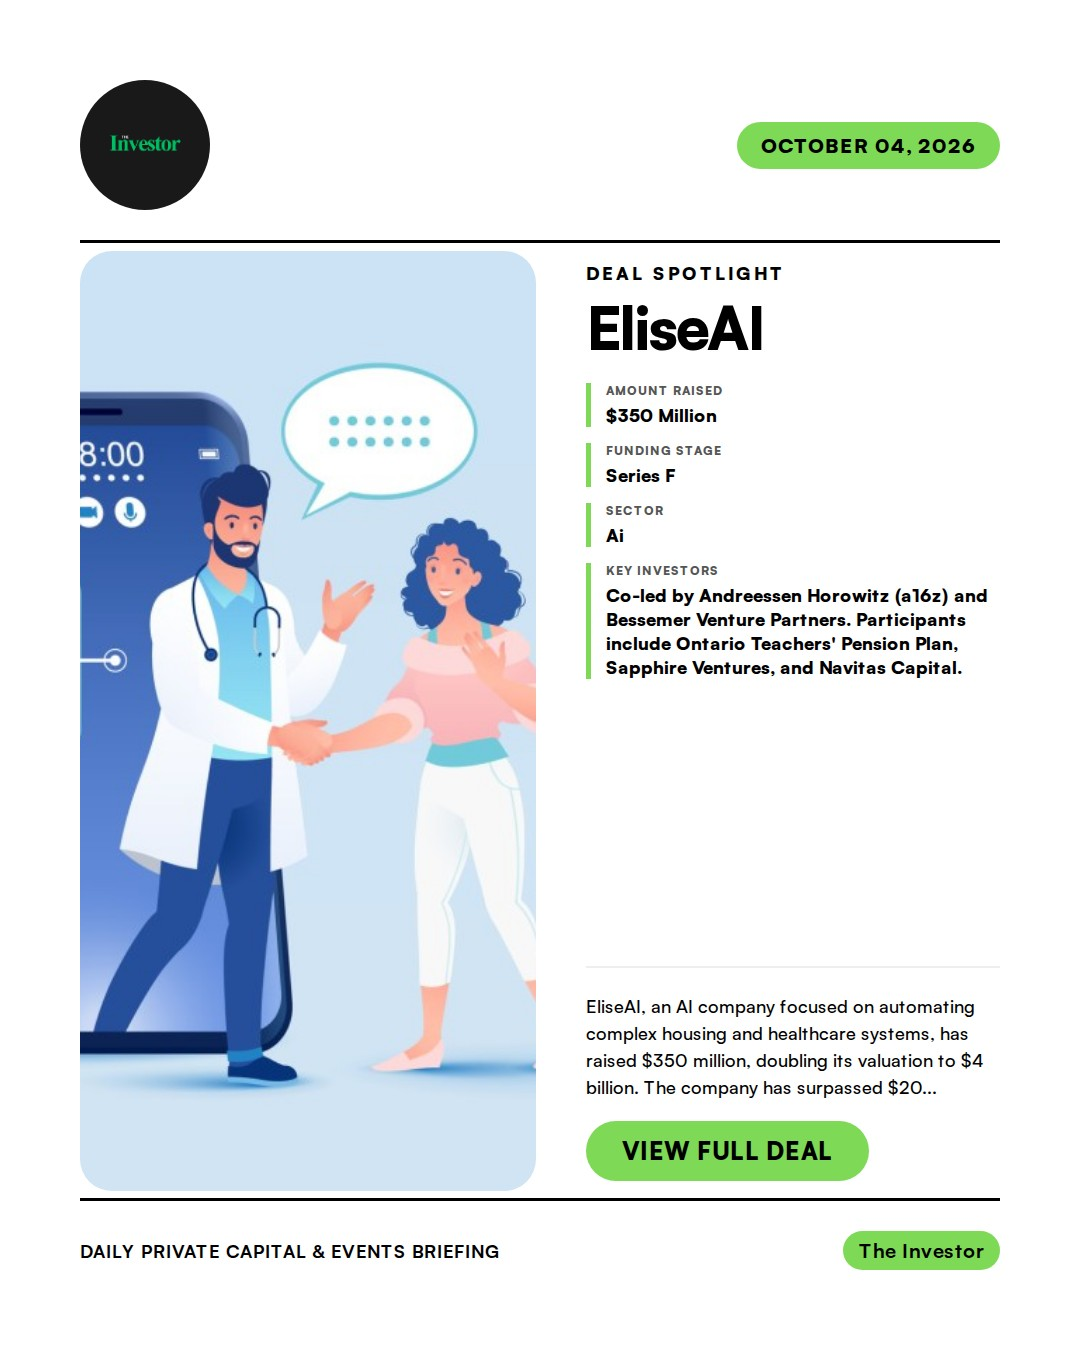
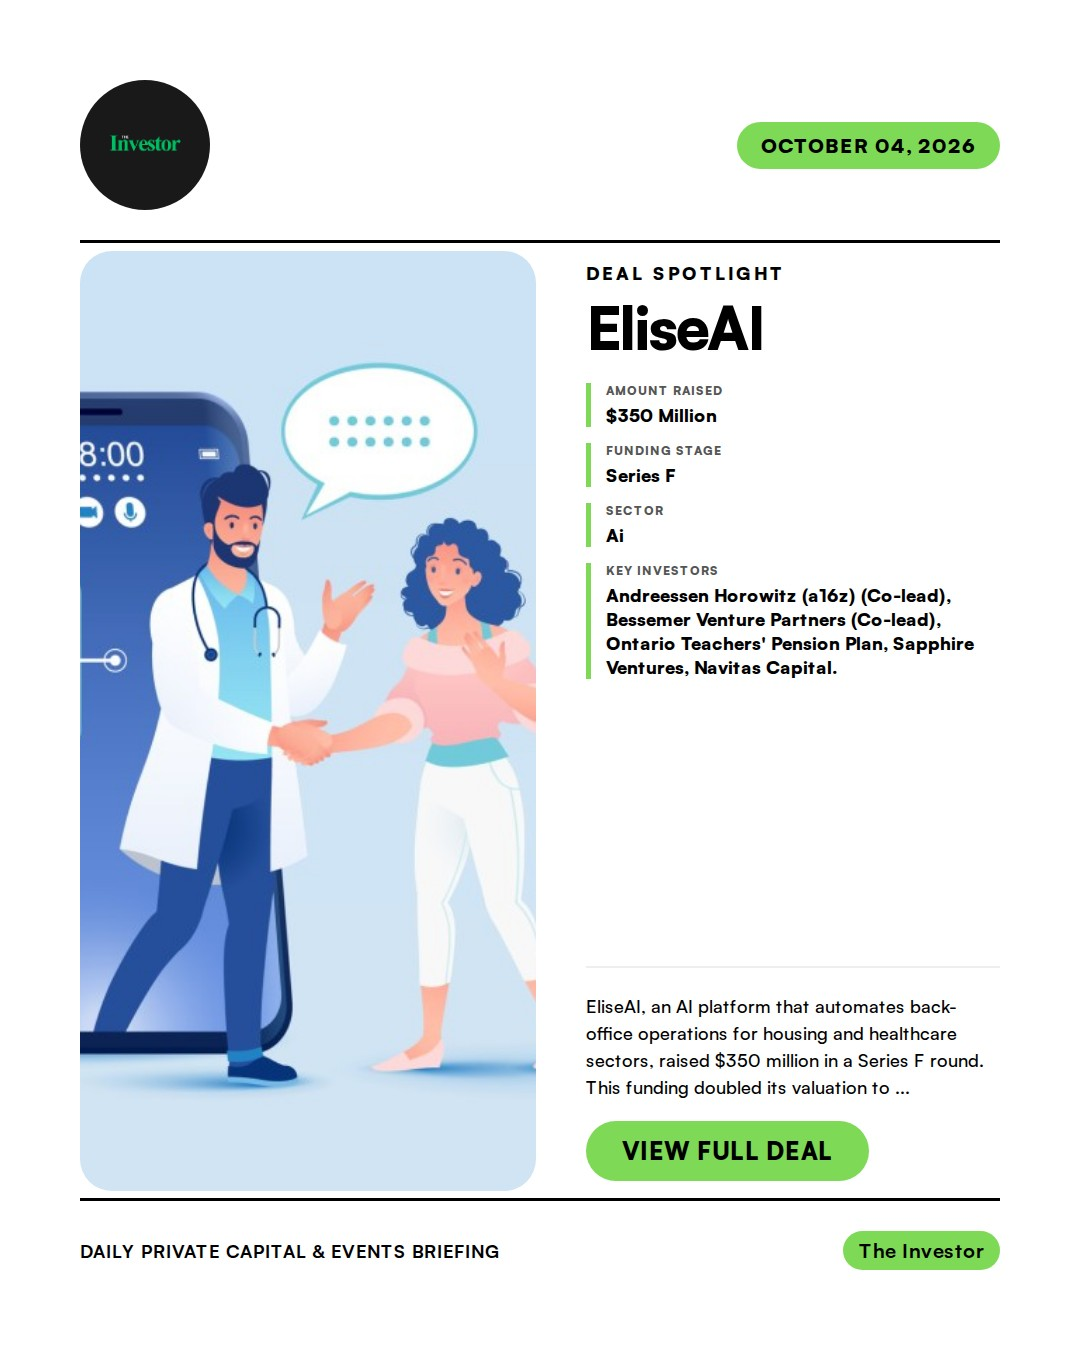
docs: Add daily news report 2026-10-04

Changed region(s): [[0.55, 0.7156, 0.9167, 0.8089], [0.55, 0.4356, 0.9167, 0.4978]]

diff --git a/NewsReport/2026-10-04-news-report.md b/NewsReport/2026-10-04-news-report.md
@@ -7,48 +7,48 @@
 
 ## 1. Neko Health: $700 Million Series C
 
-- **Summary**: Neko Health, co-founded by Spotify founder Daniel Ek, has secured $700 million in Series C funding. The preventive health technology company focuses on shifting healthcare from treating disease to preventing it through comprehensive, non-invasive body assessments powered by proprietary technology. The funding will support the company's expansion into the United States and accelerate its research and development efforts.
+- **Summary**: Neko Health, co-founded by Spotify's Daniel Ek, raised $700 million in a Series C round to expand its preventive health platform. The company offers comprehensive full-body scans to detect health issues early, aiming to shift healthcare towards prevention. The funds will be used to launch services in the US and advance its diagnostic technology.
 - **Key Points**:
-  1. Investors: Led by Lightspeed Venture Partners and co-led by O.G. Venture Partners. Participants include Atomico, General Catalyst, Lakestar, Liberty City Ventures, Positive Sum, BDT & MSD, Mark Zuckerberg, Priscilla Chan, Tim Ferriss, Maria Sharapova, and will.i.am.
-  2. Sector keywords: healthtech, preventative health, body scanning, AI, medical diagnostics
+  1. Investors: Lightspeed Venture Partners (Lead), O.G. Venture Partners (Co-lead), Atomico, General Catalyst, Lakestar, Liberty City Ventures, Positive Sum, BDT & MSD, Mark Zuckerberg, Priscilla Chan, OpenAI, Tim Ferriss, Maria Sharapova, will.i.am.
+  2. Sector keywords: healthtech, preventative healthcare, body scanning, AI, diagnostics
 - **Source**: [TechCrunch](https://techcrunch.com/podcast/the-investor-behind-neko-healths-700m-bet-on-scanning-your-whole-body/)
-- **Keywords**: `healthtech, preventative health, body scanning, AI, medical diagnostics`
+- **Keywords**: `healthtech` `preventative healthcare` `body scanning` `AI` `diagnostics`
 - **Score**: ⭐⭐⭐⭐⭐ (5/5)
 
 ---
 
 ## 2. EliseAI: $350 Million Series F
 
-- **Summary**: EliseAI, an AI company focused on automating complex housing and healthcare systems, has raised $350 million, doubling its valuation to $4 billion. The company has surpassed $200 million in annual recurring revenue and its platform powers a significant portion of U.S. apartments. The new capital will be used to expand its engineering, deployment, and sales teams, and establish a second engineering hub in San Francisco.
+- **Summary**: EliseAI, an AI platform that automates back-office operations for housing and healthcare sectors, raised $350 million in a Series F round. This funding doubled its valuation to $4 billion. The company aims to solve inefficiencies in these industries by handling tasks like leasing, resident services, scheduling, and insurance verification through AI agents.
 - **Key Points**:
-  1. Investors: Co-led by Andreessen Horowitz (a16z) and Bessemer Venture Partners. Participants include Ontario Teachers' Pension Plan, Sapphire Ventures, and Navitas Capital.
-  2. Sector keywords: AI, enterprise AI, proptech, healthtech, SaaS
+  1. Investors: Andreessen Horowitz (a16z) (Co-lead), Bessemer Venture Partners (Co-lead), Ontario Teachers' Pension Plan, Sapphire Ventures, Navitas Capital.
+  2. Sector keywords: AI, enterprise AI, proptech, healthtech, automation, SaaS
 - **Source**: [TechCrunch](https://techcrunch.com/2026/09/29/a16z-backed-eliseai-raises-350m-doubles-valuation-to-4b/)
-- **Keywords**: `AI, enterprise AI, proptech, healthtech, SaaS`
+- **Keywords**: `AI` `enterprise AI` `proptech` `healthtech` `automation` `SaaS`
 - **Score**: ⭐⭐⭐⭐⭐ (5/5)
 
 ---
 
 ## 3. Satlyt: $8 Million Seed
 
-- **Summary**: Satlyt, a Kenyan-American-founded space-tech startup, has secured $8 million in seed funding. The company is developing software that enables satellites to process data and run AI onboard, aiming to create virtual AI data centers in space. This technology is designed to reduce the need for raw data transmission to Earth, providing faster and more efficient in-orbit data analysis.
+- **Summary**: Satlyt, a satellite software company, raised $8 million in seed funding to expand AI computing and data-processing capabilities in space. The company develops technology for satellites to process information in orbit, reducing reliance on ground-based analysis. Its longer-term objective is to coordinate computing resources across multiple satellites.
 - **Key Points**:
-  1. Investors: Led by Non Sibi Ventures. Participants include TLCOM, Antler, Slauson & Co., Launch Africa Ventures, Enza Capital, Askya Investment Partners, Demos, BAG Collective, Gaingels, and Axian Investment.
-  2. Sector keywords: space tech, AI infrastructure, data centers, satellite technology
+  1. Investors: non sibi ventures (Lead), TLCOM, Antler, Slauson & Co., Launch Africa Ventures, Enza Capital, Askya Investment Partners, Demos, BAG Collective, Gaingels, Axian Investment.
+  2. Sector keywords: space tech, AI infrastructure, satellite software, data processing, deeptech
 - **Source**: [TechCabal](https://techcabal.com/2026/10/01/the-plan-to-build-virtual-data-centres-in-space-just-got-8-million-backing/)
-- **Keywords**: `space tech, AI infrastructure, data centers, satellite technology`
+- **Keywords**: `space tech` `AI infrastructure` `satellite software` `data processing` `deeptech`
 - **Score**: ⭐⭐⭐⭐ (4/5)
 
 ---
 
 ## 4. MAVI: $4 Million Seed
 
-- **Summary**: MAVI, an accounting staffing company, has emerged from stealth with $4 million in seed funding. The company operates an AI-powered marketplace that connects U.S. companies with global accounting and finance professionals proficient in AI tools. MAVI aims to address the shortage of AI-fluent accounting talent and also handles cross-border hiring logistics.
+- **Summary**: MAVI, an accounting staffing company, emerged from stealth with $4 million in seed funding. The company operates an AI-powered marketplace connecting US companies with AI-proficient accounting and finance professionals from abroad, addressing a growing shortage of skilled talent in the accounting sector.
 - **Key Points**:
-  1. Investors: Led by Harlem Capital.
-  2. Sector keywords: AI, accounting, staffing, fintech, talent marketplace
+  1. Investors: Harlem Capital (Lead).
+  2. Sector keywords: accounting, staffing, AI, talent marketplace, fintech
 - **Source**: [TechCrunch](https://techcrunch.com/2026/09/28/mavi-bets-on-the-ai-boom-creating-demand-for-a-new-kind-of-accountant/)
-- **Keywords**: `AI, accounting, staffing, fintech, talent marketplace`
+- **Keywords**: `accounting` `staffing` `AI` `talent marketplace` `fintech`
 - **Score**: ⭐⭐⭐ (3/5)
 
 ---
